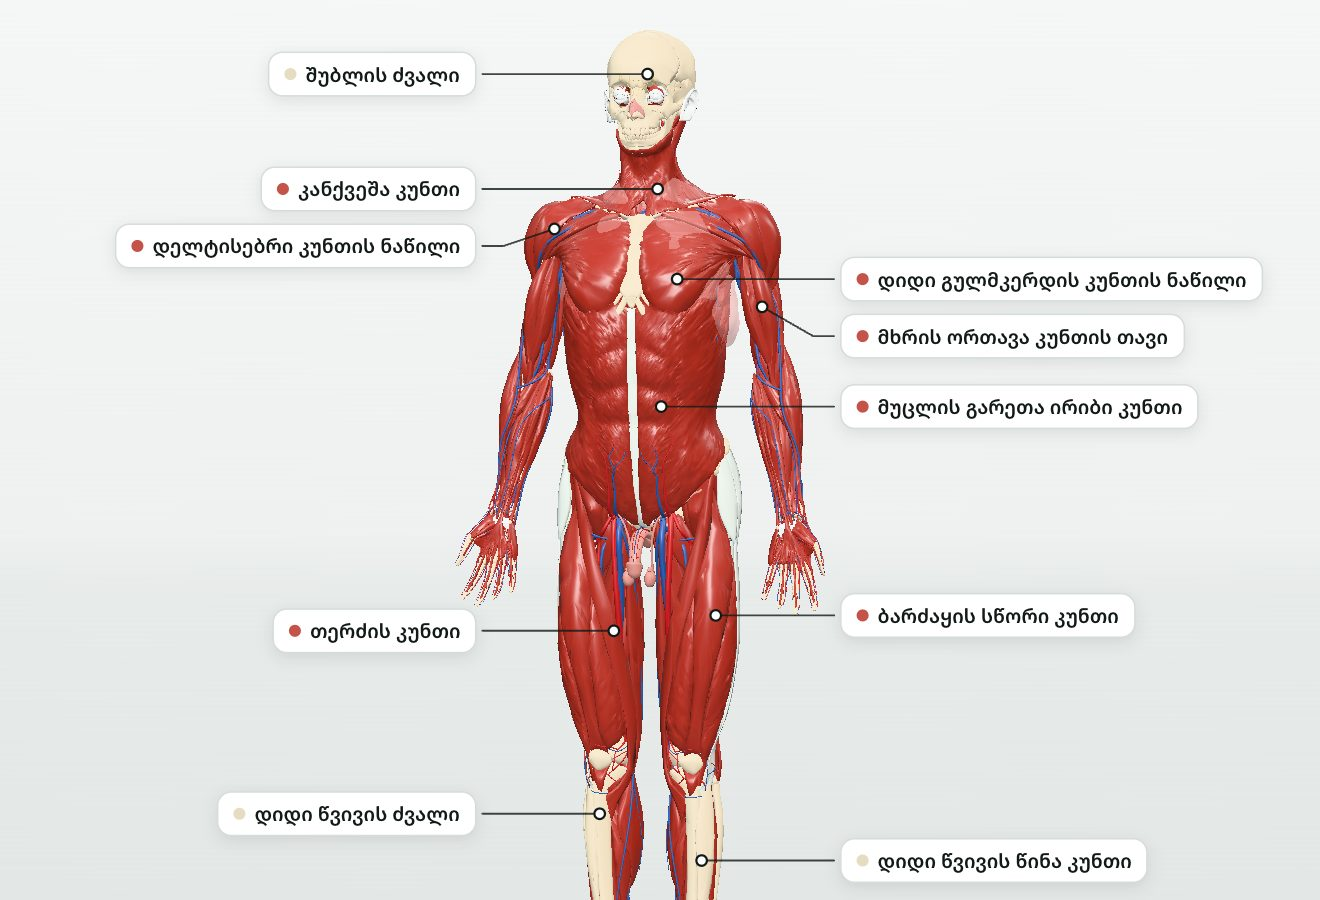
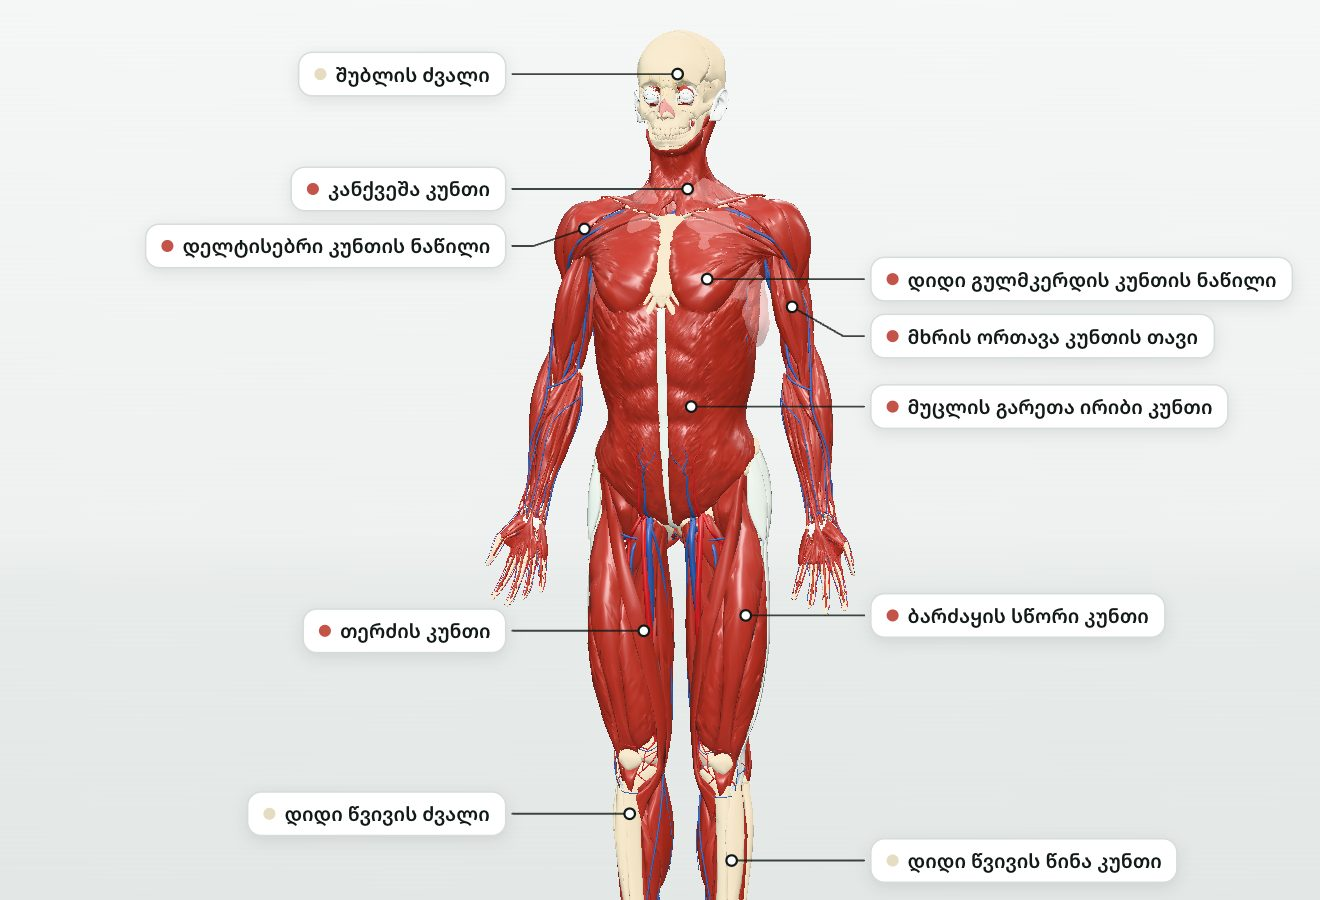
feat: reproductive organs hidden by default; only teachers can show them
- 26 parts (reproductive system plus the vessels, muscle and urethra that show their shape) are left
  out of the view, search, labels and quiz unless turned on
- Teachers and admins get a switch in the Learn tab (off on every load); students never see it
- Portal screenshots retaken without them

diff --git a/src/components/sites/human-atlas-co-f41dd540/root-8a5edab2/HumanAtlasApp.tsx b/src/components/sites/human-atlas-co-f41dd540/root-8a5edab2/HumanAtlasApp.tsx
@@ -15,6 +15,7 @@ import {
 } from "./anatomy-viewer";
 import {
   DEFAULT_SYSTEMS,
+  isSensitive,
   MODEL_BASE,
   PRESETS,
   SYSTEMS,
@@ -92,7 +93,14 @@ function useViewportWidth() {
   return width;
 }
 
-export function HumanAtlasApp({ initialTopic }: { initialTopic?: string }) {
+export function HumanAtlasApp({
+  initialTopic,
+  canShowSensitive = false,
+}: {
+  initialTopic?: string;
+  /** Teachers and admins may turn the reproductive organs on; students never see them. */
+  canShowSensitive?: boolean;
+}) {
   const t = STRINGS.ka;
   const fmt = useMemo(
     () => ({ format: (n: number) => formatNumber(n, "ka") }),
@@ -130,6 +138,7 @@ export function HumanAtlasApp({ initialTopic }: { initialTopic?: string }) {
   const [labelChannel] = useState(createChannel<LabelFrame>);
   // Always-on labels: school smart boards are touch screens, so hover never happens there.
   const [labelsOn, setLabelsOn] = useState(true);
+  const [showSensitive, setShowSensitive] = useState(false);
   // Learning: school stage, quiz/flashcards, and the teacher's board mode with a drawing layer.
   const [level, setLevel] = useState<Level>(() => (typeof window === "undefined" ? "basic" : loadLevel()));
   const [practice, setPractice] = useState<PracticeMode | null>(null);
@@ -154,8 +163,11 @@ export function HumanAtlasApp({ initialTopic }: { initialTopic?: string }) {
     [manifest],
   );
   const index = useMemo(
-    () => (manifest ? buildSearchIndex(manifest) : []),
-    [manifest],
+    () =>
+      manifest
+        ? buildSearchIndex(showSensitive ? manifest : { ...manifest, parts: manifest.parts.filter((p) => !isSensitive(p)) })
+        : [],
+    [manifest, showSensitive],
   );
 
   const counts = useMemo(() => {
@@ -169,13 +181,15 @@ export function HumanAtlasApp({ initialTopic }: { initialTopic?: string }) {
     ) as Record<SystemKey, string>;
   }, [manifest, fmt]);
 
+  const sensitiveIds = useMemo(() => new Set((manifest?.parts ?? []).filter(isSensitive).map((p) => p.id)), [manifest]);
   const visible = useMemo(() => {
-    if (isolated) return new Set(isolated);
     const ids = new Set<string>();
-    for (const p of manifest?.parts ?? [])
-      if (enabled.has(p.system) && !hidden.has(p.id)) ids.add(p.id);
+    if (isolated) for (const id of isolated) ids.add(id);
+    else for (const p of manifest?.parts ?? []) if (enabled.has(p.system) && !hidden.has(p.id)) ids.add(p.id);
+    // Hidden whatever else is switched on, isolated or searched, until the teacher turns them on.
+    if (!showSensitive) for (const id of sensitiveIds) ids.delete(id);
     return ids;
-  }, [manifest, enabled, hidden, isolated]);
+  }, [manifest, enabled, hidden, isolated, showSensitive, sensitiveIds]);
 
   // --- Engine lifecycle -------------------------------------------------------------------------
   const pickRef = useRef<(part: AtlasPart | null, focus: boolean) => void>(
@@ -695,6 +709,7 @@ export function HumanAtlasApp({ initialTopic }: { initialTopic?: string }) {
         onCloseMobile={() => setSidebarOpen(false)}
         systems={{
           t,
+          hiddenSystems: showSensitive ? [] : ["reproductive"],
           enabled,
           counts,
           activePreset,
@@ -744,6 +759,7 @@ export function HumanAtlasApp({ initialTopic }: { initialTopic?: string }) {
           onBoard: () => setBoard((b) => !b),
           drawing,
           onDraw: () => setDrawing((d) => !d),
+          sensitive: canShowSensitive ? { on: showSensitive, onToggle: () => setShowSensitive((v) => !v) } : undefined,
         }}
       />
 

diff --git a/src/components/sites/human-atlas-co-f41dd540/root-8a5edab2/Sidebar.tsx b/src/components/sites/human-atlas-co-f41dd540/root-8a5edab2/Sidebar.tsx
@@ -1,7 +1,7 @@
 "use client";
 
 import Link from "next/link";
-import { ChevronRight, GalleryVerticalEnd, HeartPulse, ListChecks, Pause, PenLine, PersonStanding, Play, Presentation, QrCode, Waves, Wind, X } from "lucide-react";
+import { ChevronRight, EyeOff, GalleryVerticalEnd, HeartPulse, ListChecks, Pause, PenLine, PersonStanding, Play, Presentation, QrCode, Waves, Wind, X } from "lucide-react";
 import { cn } from "@/lib/utils";
 import type { LessonKey } from "./anatomy-groups";
 import type { AnimationSettings } from "./anatomy-viewer";
@@ -33,8 +33,11 @@ function SystemsTab({
   onToggle,
   onPreset,
   onToggleAll,
+  hiddenSystems = [],
 }: {
   t: Strings;
+  /** Systems left out of the list entirely (the reproductive system unless a teacher shows it). */
+  hiddenSystems?: SystemKey[];
   enabled: Set<SystemKey>;
   counts: Record<SystemKey, string>;
   activePreset: PresetKey | null;
@@ -67,7 +70,7 @@ function SystemsTab({
       </div>
 
       <ul className="atlas-scroll min-h-0 flex-1 overflow-y-auto border-t border-[#e2e7e5] py-1">
-        {SYSTEMS.map((s) => {
+        {SYSTEMS.filter((s) => !hiddenSystems.includes(s.key)).map((s) => {
           const on = enabled.has(s.key);
           return (
             <li key={s.key} className={cn(row, "hover:bg-[#f5f7f6]")}>
@@ -279,6 +282,7 @@ function LearnTab({
   onBoard,
   drawing,
   onDraw,
+  sensitive,
 }: {
   level: Level;
   onLevel: (level: Level) => void;
@@ -288,6 +292,8 @@ function LearnTab({
   onBoard: () => void;
   drawing: boolean;
   onDraw: () => void;
+  /** Only for teachers and admins: whether the reproductive organs are shown. */
+  sensitive?: { on: boolean; onToggle: () => void };
 }) {
   const action = "flex w-full items-center gap-3 px-4 py-3 text-start transition-colors hover:bg-[#f5f7f6]";
   return (
@@ -349,6 +355,16 @@ function LearnTab({
         <span />
         <Switch checked={drawing} onChange={onDraw} label="ეკრანზე ხატვა" />
       </div>
+      {sensitive && (
+        <div className={cn(row, "hover:bg-[#f5f7f6]")}>
+          <EyeOff className="size-4 text-[#33413e]" />
+          <button type="button" onClick={sensitive.onToggle} className="py-1 text-start text-sm leading-5 text-[#111a18]">
+            რეპროდუქციული ორგანოები
+          </button>
+          <span />
+          <Switch checked={sensitive.on} onChange={sensitive.onToggle} label="რეპროდუქციული ორგანოების ჩვენება" />
+        </div>
+      )}
       <p className="px-4 pt-1 pb-4 text-xs leading-5 text-[#66736f]">
         დაფის რეჟიმში ტექსტი და წარწერები დიდდება, თემები კი ნაბიჯ-ნაბიჯ ჩანს.
       </p>

diff --git a/src/components/sites/human-atlas-co-f41dd540/root-8a5edab2/atlas-data.ts b/src/components/sites/human-atlas-co-f41dd540/root-8a5edab2/atlas-data.ts
@@ -122,6 +122,14 @@ export const PRESETS: Record<PresetKey, SystemKey[]> = {
   organs: ["cardiac", "respiratory", "digestive", "urinary", "lymphatic", "endocrine", "reproductive"],
 };
 
+/**
+ * Reproductive organs and the structures that show their shape (the male model's penis and scrotum
+ * vessels, the urethra running through the penis, the perineal muscle). Hidden unless a teacher turns
+ * them on, so the model can be shown to a class without awkward moments.
+ */
+const SENSITIVE = /penis|penile|scrot|testicular|spermatic|bulbospong|ischiocavern|cremaster|glans|prepuce|perineal muscle|^urethra$/i;
+export const isSensitive = (p: AtlasPart) => p.system === "reproductive" || SENSITIVE.test(p.name);
+
 export const DEFAULT_SYSTEMS: SystemKey[] = SYSTEMS.filter((s) => s.defaultOn).map((s) => s.key);
 
 /** Emissive glow applied to selected structures. */

diff --git a/src/app/topic/[slug]/page.tsx b/src/app/topic/[slug]/page.tsx
@@ -15,6 +15,6 @@ export default async function TopicPage({ params }: { params: Promise<{ slug: st
   const { slug } = await params;
   if (!TOPIC_BY_SLUG[slug]) notFound();
   // QR codes in textbooks lead here: after signing in the pupil comes straight back to this topic.
-  await requireUser(`/topic/${slug}`);
-  return <HumanAtlasApp initialTopic={slug} />;
+  const user = await requireUser(`/topic/${slug}`);
+  return <HumanAtlasApp initialTopic={slug} canShowSensitive={user.role !== "student"} />;
 }

diff --git a/src/app/anatomy/page.tsx b/src/app/anatomy/page.tsx
@@ -9,6 +9,6 @@ export const metadata: Metadata = {
 };
 
 export default async function AnatomyPage() {
-  await requireUser("/anatomy");
-  return <HumanAtlasApp />;
+  const user = await requireUser("/anatomy");
+  return <HumanAtlasApp canShowSensitive={user.role !== "student"} />;
 }
